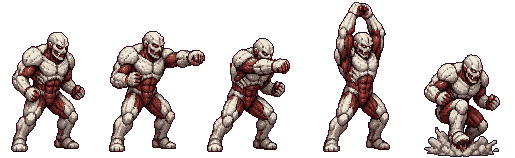
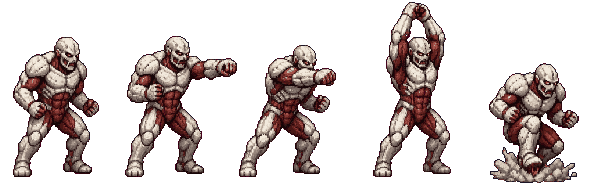
Colossus as tall as a lane boss (Samuel)
Samuel asked for the colossus to be much bigger, as big as the bosses in
the lane: drawn at 2.8x (about 146 px head to feet, the tallest boss is
about 145 px at BOSS_SCALE). The stand-in scale follows.

Claude-Session: https://claude.ai/code/session_018e4pu479xrbrSW39QSoRFY

diff --git a/src/heroes/yeren.ts b/src/heroes/yeren.ts
@@ -9,12 +9,12 @@ import type { HeroDef } from '../data';
  * with the heat of its glowing cracks, and slow, crushing stomps. Counters: flyers (the titan is ground melee),
  * burst damage that breaks the titan's body early (he is cut out and stunned), and fights where nobody hits him.
  * Released 2026-11-16 with Samuel's sprites (art/heroes/yeren); his colossus has its own sprites too
- * (art/heroes/yeren_titan, drawn 2.4x).
+ * (art/heroes/yeren_titan, drawn 2.8x, boss height).
  */
 export const YEREN: HeroDef = {
   id: 'yeren', rarity: 'epic', unique: true, statRarity: 'legendary', name: 'Yeren', element: 'earth',
   type: 'Knight', baseAtk: 3.4, baseHp: 165, range: 30, attackCooldown: 1.15, moveSpeed: 95, unlockCost: 50, upgradeBaseCost: 15, goldMult: 1, steadfast: true,
-  signature: { kind: 'titan', rage: 100, perHit: 5, perHpLost: 3, seconds: 15, body: 4, atk: 1.8, cooldown: 1.25, stomp: 60, reach: 25, brokenStun: 2, taunt: 40, heat: 70, heatDps: 0.35, scale: 2.4 },
+  signature: { kind: 'titan', rage: 100, perHit: 5, perHpLost: 3, seconds: 15, body: 4, atk: 1.8, cooldown: 1.25, stomp: 60, reach: 25, brokenStun: 2, taunt: 40, heat: 70, heatDps: 0.35, scale: 2.8 },
   sigPlus: 'Hardened Hide: his colossus takes 30% less damage and stands 4 seconds longer.',
   ult: { kind: 'roar', mult: 1.5, radius: 160, stun: 2, extend: 5, vuln: 1.2, vulnSeconds: 6 },
   ultPlus: 'The blast cracks their guard: every enemy it hits takes 20% more damage for 6 seconds.',

diff --git a/tests/yeren.test.ts b/tests/yeren.test.ts
@@ -5,6 +5,7 @@ import { arenaItems, releasedUniques, isUnique, YEREN_ID, YEREN_RELEASED } from 
 import { heroForms } from '../src/heroForms';
 import { ultFxStyle } from '../src/ultFx';
 import { HERO_ANIMS } from '../src/heroAnims';
+import { BOSS_ANIMS } from '../src/bossAnims';
 
 const yeren = HEROES.find((h) => h.id === 'yeren')!;
 
@@ -44,8 +45,10 @@ describe('Yeren, the titan shifter', () => {
     for (const f of ['yeren_titan.png', 'yeren_titan_run.png', 'yeren_titan_attack.png']) expect(files.has(f), f).toBe(true);
     const t = HERO_ANIMS[titanArtKey('yeren')], y = HERO_ANIMS.yeren;
     expect(t).toMatchObject({ run: 6, attack: 5 });
-    // The colossus stands at least twice as tall as Yeren himself.
+    // The colossus stands at least twice as tall as Yeren himself, and (Samuel) as tall as a lane boss.
     expect(t.feet[1] - t.headTop).toBeGreaterThan(2 * (y.feet[1] - y.headTop));
+    const bossTall = Math.max(...Object.values(BOSS_ANIMS).map((b) => (b.feet[1] - b.headTop) * 1.5)); // BattleScene BOSS_SCALE
+    expect(t.feet[1] - t.headTop).toBeGreaterThanOrEqual(bossTall * 0.85);
   });
 
   it('is sold like Gogu once released, and never in random pools', () => {

diff --git a/art/heroes/animate.js b/art/heroes/animate.js
@@ -35,7 +35,7 @@ const HERO_SIZE = {
   // The full roster. Squads (archers, scrappers, spears...) stay at 1: the game draws each fighter at 0.7.
   // Legendaries stand a head above everyone (Samuel, 2026-10-31: they must look a level above regular heroes).
   varuun: 1.6, ashtor: 1.5, talonra: 1.5,
-  pasta: 1, pasta_dark: 1, kairo: 1, hamlet: 0.92, ferro: 1.05, yeren: 1.05, yeren_titan: 2.4, kairo_surge1: 1.3, kairo_surge: 1.15, kairo_ascend3: 1.3, kairo_overdrive: 1.15,
+  pasta: 1, pasta_dark: 1, kairo: 1, hamlet: 0.92, ferro: 1.05, yeren: 1.05, yeren_titan: 2.8, kairo_surge1: 1.3, kairo_surge: 1.15, kairo_ascend3: 1.3, kairo_overdrive: 1.15,
   magmabrute: 1.3, bonebrute: 1.3, crabbrute: 1.25, mudbrute: 1.25, glacius: 1.25, thundrum: 1.25,
   pyrrhus: 1.2, boulder: 1.2, brightmane: 1.2, malgrave: 1.2,
   tusk: 1.15, grumm: 1.15, rime: 1.15, ruin: 1.15, brasha: 1.15, weaver: 1.15, gloom: 1.15, drakebot: 1.15,

diff --git a/src/heroAnims.ts b/src/heroAnims.ts
@@ -154,5 +154,5 @@ export const HERO_ANIMS: Record<string, HeroAnim> = {
   wraith: { frame: [62,57], feet: [27,56], headTop: 4, run: 5, attack: 5, hitFrame: 3 },
   wyrmling: { frame: [48,52], feet: [25,51], headTop: 9, run: 5, attack: 5, hitFrame: 1 },
   yeren: { frame: [55,57], feet: [29,56], headTop: 2, run: 6, attack: 5, hitFrame: 3 },
-  yeren_titan: { frame: [103,158], feet: [51,157], headTop: 32, run: 6, attack: 5, hitFrame: 1 },
+  yeren_titan: { frame: [119,184], feet: [59,183], headTop: 37, run: 6, attack: 5, hitFrame: 1 },
 };

diff --git a/src/portraitBounds.ts b/src/portraitBounds.ts
@@ -146,7 +146,7 @@ export const HERO_BOUNDS: Record<string, ArtBounds> = {
   wraith: [62, 57, 12, 4, 47, 56, 28.9],
   wyrmling: [48, 52, 1, 9, 42, 50, 22.3],
   yeren: [55, 57, 8, 2, 44, 56, 27.6],
-  yeren_titan: [103, 158, 11, 32, 85, 152, 47.3],
+  yeren_titan: [119, 184, 13, 37, 99, 177, 54.8],
 };
 
 /** First idle frame of public/bosses/<id>_idle.png. */
